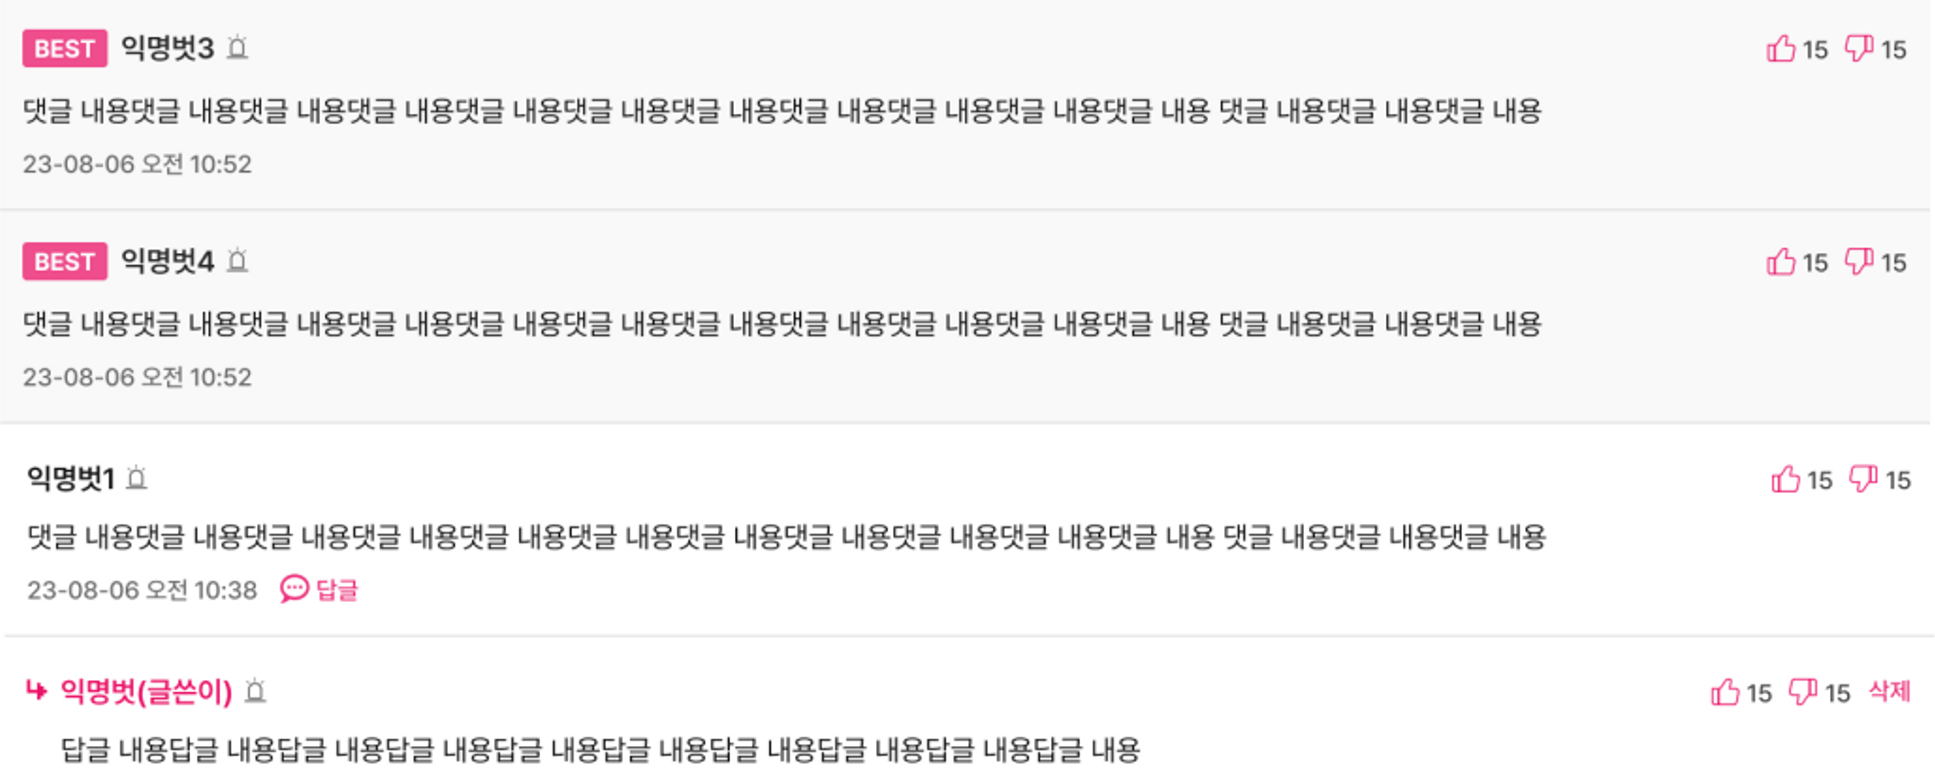
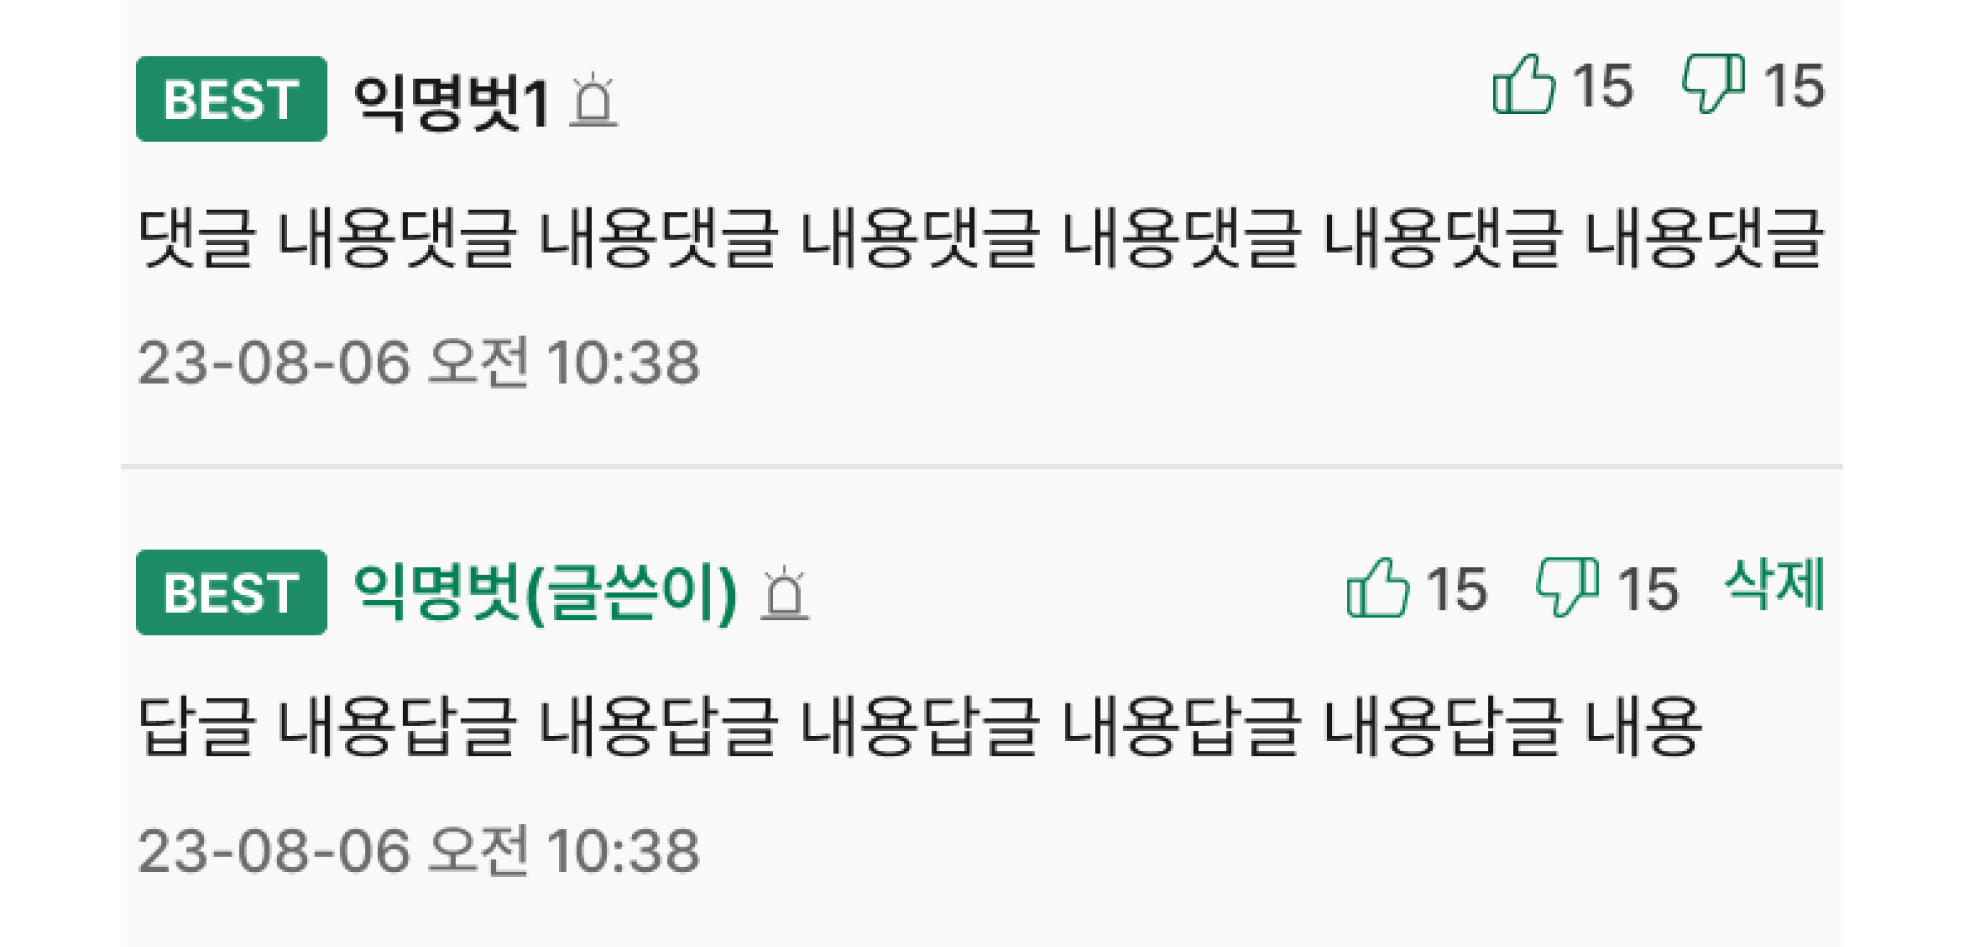
이미지 변경

diff --git a/src/components/views/UiPages/uiContent.css b/src/components/views/UiPages/uiContent.css
@@ -54,21 +54,21 @@
 
 #comment_before {
   background-image: url(../../../../public/img/comment_after.png);
-
+  height: 70px;
 }
 
 #comment_after {
-  background-image: url(../../../../public/img/comment_after.png);
-
+  background-image: url(../../../../public/img/comment_after2.png);
+  height: 70px;
 }
 
 #board_before {
-  background-image: url(../../../../public/img/board_after.png);
+  background-image: url(../../../../public/img/board_after.jpg);
 
 }
 
 #board_after {
-  background-image: url(../../../../public/img/board_after2.png);
+  background-image: url(../../../../public/img/board_after2.jpg);
 
 }
 
@@ -78,7 +78,7 @@
 }
 
 #sidebar_after {
-  background-image: url(../../../../public/img/sidebar_after.jpeg);
+  background-image: url(../../../../public/img/sidebar_after.png);
 
 }
 
@@ -86,6 +86,7 @@
   .img_wrap {
     display: block;
   }
+
   .ui_image {
     float: none;
     margin: 0;
